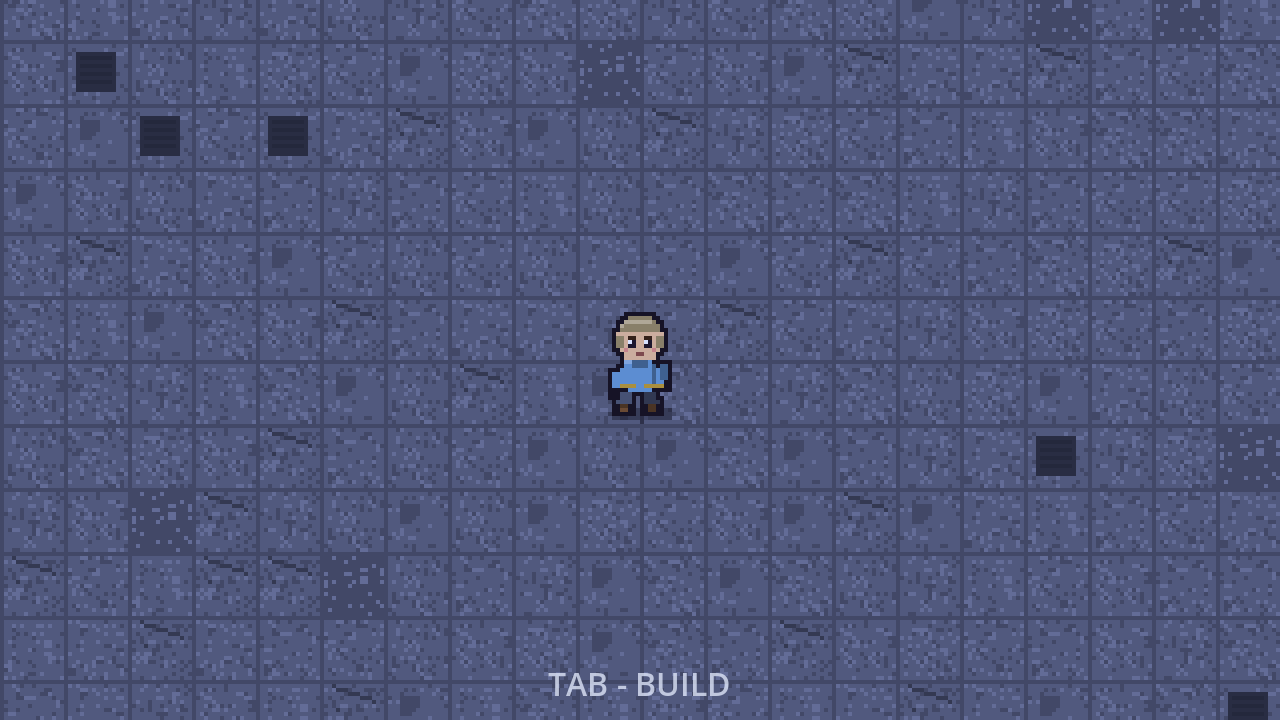
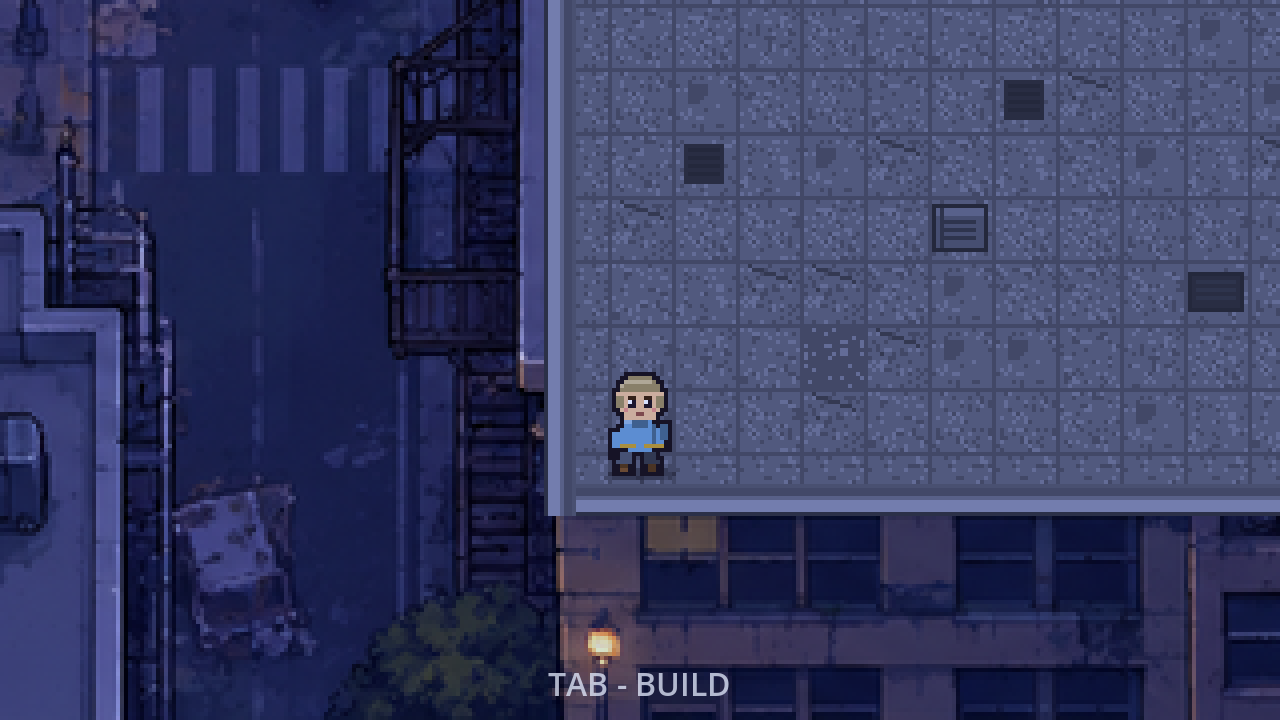
fix: 镜头边界改成整张背景图，角色走到平台四角也不会出画（两种视角都对）

diff --git a/README.md b/README.md
@@ -632,6 +632,7 @@ after 3.5s-> 0 只（确认不再刷）
   **基地默认是全景视角**（ase_scene._set_overview(true)）：相机 zoom = min(320/1036, 180/582) ≈ 0.309，
   整张背景刚好铺满屏幕；按 **V** 在全景 / 正常跟随视角之间切换，
   切换用 Tween 缓动 0.45s（TRANS_CUBIC + EASE_IN_OUT），镜头是平滑拉近/拉远而不是瞬切。
+  两种视角的镜头边界都设成**整张背景图**（-278,-51 ~ 758,531），所以角色走到平台四角也不会跑出画面。
 - **夜色城市背景**：现在用的是手绘夜景图（ssets/base/city_background.png，1036×582）。
   旧的程序生成版还在 	ools/make_city.lua（800×800，平台居中、四周外扩 160），
   夜景配色：深蓝沥青街道 + 湿反光、暗色楼顶（只有受光边亮一点）、随机亮/坏路灯与暖色光池、
